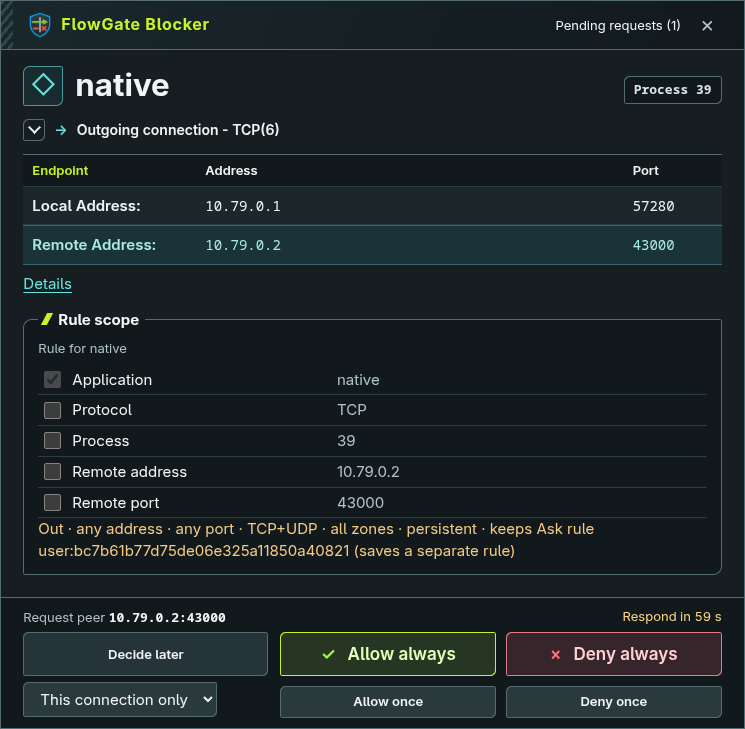
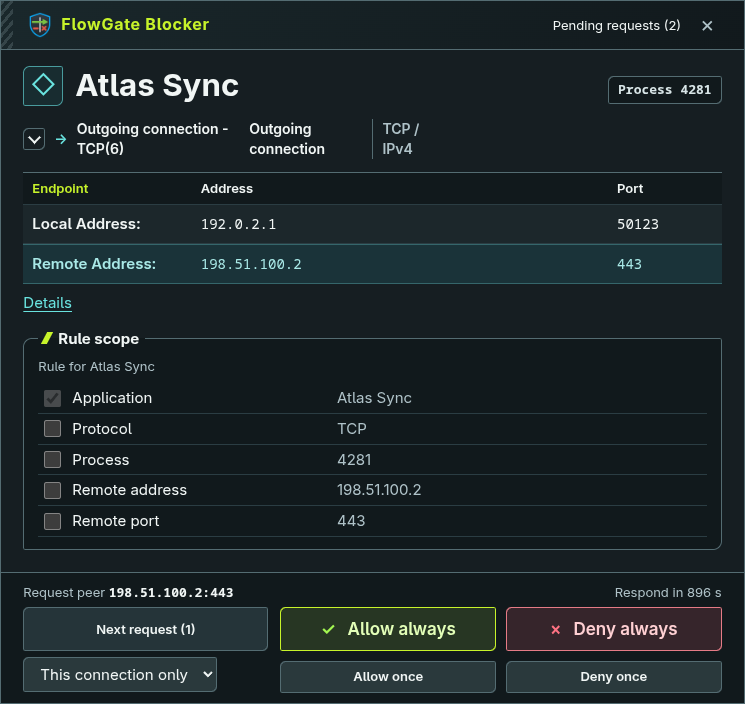
Align release and operator guides with RC16 source and lab receipts

diff --git a/README.md b/README.md
@@ -21,57 +21,52 @@ RC16 adds permission-popup scaling, refreshes the Pending requests inspector,
 and checks the selected shaping interface at startup. The Linux x86-64 package
 and its checksum receipts are on the [RC16 prerelease page](https://github.com/OzoneH3/flowgate/releases/tag/flowgate-v0.1.0-rc.16).
 
-Lab run `1795817718246162010` tested the numbered archive from `a0a9faa9`.
-It passed **229 of 230 API cases** across ten profiles and **220 of 243 GUI
-journeys** across nine desktops. Eighteen GUI journeys involved native tray
-actions that were blocked or unavailable. All ten API profiles restored their
-starting rule inventory.
-
 ## Features
 
-- See live traffic per app and opt in to 1, 7 or 30 days of [usage history](docs/USAGE-HISTORY.md).
-- **Allow, Block or Ask** for inbound and outbound TCP/UDP. Answer once or [save a rule](docs/SEMANTICS.md).
-- Review decisions and their reasons in the [Decision Log](docs/DECISION-LOG.md).
-- Set per-executable rules within each prefix on [supported Wine/Proton setups](docs/PROTON-LAUNCHER-REGRESSION.md).
-- **Experimental** [bandwidth limits and traffic priorities](docs/ZONE-SHAPING.txt) for eligible native apps.
+- **Inspect connections.** Activity groups sockets by application and process. Use the traffic chart and connection analyzer to investigate a connection, or enable 1, 7 or 30 days of machine-wide observed usage history. [Usage history and privacy](docs/USAGE-HISTORY.md)
+- **Decide on requests.** Allow or deny a held connection once, grant a supported temporary process permission, or review the scope of a saved rule. The Pending requests inspector shows the selected connection. Permission popup scale can be set from 75% to 125%. [Desktop guide](electron/README.md)
+- **Manage policy.** Create Allow, Block or Ask rules by direction, protocol, address and port. Scope a rule to an application or a verified process, set an expiry, and inspect which rule won in the Decision Log. [Rule editor](docs/RULES.md) · [Decision Log](docs/DECISION-LOG.md)
+- **Identify Windows applications.** Supported Wine and Proton runtimes can attribute a connection to its Windows executable, user and prefix. [Runtime requirements](docs/WINE.md)
+- **Shape traffic experimentally.** Set upload and download limits or traffic priority on an eligible interface. Saved settings can apply when an application starts. Wine shaping requires a verified live outgoing TCP socket. [Shaping controls](docs/ZONE-SHAPING.txt) · [Traffic priority](docs/TRAFFIC-PRIORITY.txt)
 
 ## Supported systems and limitations
 
-The standalone package targets **x86-64 Linux with systemd**. These are
-scenario results from specific builds. A desktop **Allow once** pass means
-the receiver got exactly one held TCP payload after the popup click.
+The standalone package targets **x86-64 Linux with systemd**. The daemon can
+run headless. The Electron desktop runs on X11 and Wayland.
 
-| Tested system | Recorded result |
-| --- | --- |
-| Debian 13.7 (headless) | RC8 passed 12 firewall rule cases and the separate UDP fast-path check. A later build passed upgrade and rollback with stock `/run` mounted `noexec`. |
-| Linux Mint 22.3 Cinnamon (X11) | RC8 **Allow once** and **Deny once** passed. |
-| Kubuntu 26.04.1 KDE Plasma (Wayland) | RC8 **Allow once** passed. |
-| CachyOS KDE Plasma (Wayland) | RC8 **Allow once** and **Deny once** passed with stock UFW. |
-| Xubuntu 26.04.1 Xfce (X11) | RC8 **Allow once** passed. |
-| openSUSE Tumbleweed KDE Plasma (Wayland) | RC8 **Allow once** passed on retry with stock firewalld. |
-| Pop!_OS 24.04 COSMIC (Wayland) | **Allow once** passed on the placement-fix build `a96ab84d` at stock resolution and scaling. |
-| Ubuntu 26.04.1 GNOME (Wayland) | Earlier headless rules and UDP checks passed. The RC8 desktop retry stopped before GNOME Shell was available. |
-| Fedora 45 GNOME (Wayland) | Earlier builds passed headless rules, UDP, and desktop delivery. The RC8 desktop retry stopped before a Wayland socket was available. A separate run hit a stock firewalld readiness blocker. |
-| CachyOS Hyprland (Wayland) | An earlier desktop delivery check passed with UFW disabled. The stock RC8 check stopped during popup navigation. |
+RC16 passed **229/230 API cases** on ten profiles and **220/243 desktop
+journeys** on nine graphical profiles. The API suite included real connections with
+receiver counts as well as configuration checks. Desktop journeys exercised the packaged GUI with fixture
+requests. These are the original results from run `1795817718246162010`.
 
-[Tested builds, run IDs and earlier results](docs/COMPATIBILITY.md)
+| Tested system | Session | API passed | Desktop journeys passed |
+| --- | --- | ---: | ---: |
+| Debian 13 | Headless | 23/23 | — |
+| CachyOS Hyprland | Wayland | 23/23 | 24/27 |
+| CachyOS Plasma | Wayland | 23/23 | 25/27 |
+| Fedora 45 Workstation (GNOME) | Wayland | 23/23 | 25/27 |
+| Kubuntu 26.04.1 Plasma | Wayland | 23/23 | 23/27 |
+| Linux Mint 22.3 Cinnamon | X11 | 23/23 | 25/27 |
+| openSUSE Tumbleweed Plasma | Wayland | 22/23 | 25/27 |
+| Pop!_OS 24.04 COSMIC | Wayland | 23/23 | 24/27 |
+| Ubuntu 26.04.1 GNOME | Wayland | 23/23 | 24/27 |
+| Xubuntu 26.04.1 Xfce | X11 | 23/23 | 25/27 |
 
-App rules require [verified socket ownership](docs/ATTRIBUTION.md).
-Protection readiness depends on the host firewall and VPN setup. WireGuard
-and XFRM interfaces are [unsupported for protection](docs/SEMANTICS.md).
-Download limiting is experimental and covers
-[eligible established TCP connections](docs/DOWNLOAD-LIMITER.txt).
+- **Firewall enforcement:** openSUSE recorded the process Block failure described above. Application rules depend on verified socket ownership. Protection readiness depends on the host firewall and VPN configuration; WireGuard and XFRM devices remain unsupported. [Attribution](docs/ATTRIBUTION.md) · [Protection scope](docs/SEMANTICS.md)
+- **Tray and popups:** stock Fedora GNOME had no tray host. On the other eight desktops, the runner could not complete the keyboard tray journeys. Bottom-right, above-window permission prompts remain unverified on GNOME and COSMIC. [RC16 compatibility details and earlier runs](docs/COMPATIBILITY.md) · [Popup placement](docs/ROADMAP.md#todo--permission-popup-placement)
+- **Traffic limits:** download limiting covers eligible established TCP connections. Interface discovery and readiness checks determine where shaping can run. [Download limiter](docs/DOWNLOAD-LIMITER.txt)
 
-![FlowGate Activity view with download and upload totals in the traffic chart header, the app table below, and the selected app’s Overview at right](docs/images/flowgate-main-window.png)
+## Desktop screenshots
 
-*The Activity view shows simulated traffic. On wide windows,
-the inspector sits beside the traffic chart and app table.*
+![RC16 Pending requests showing Atlas Sync selected, Beacon Relay queued and the selected connection’s endpoints and permission controls](docs/images/flowgate-main-window.png)
 
-![FlowGate Ask prompt for an outgoing TCP connection from the test executable native, showing endpoints, Rule scope, and the four Always and Once buttons](docs/images/flowgate-ask-popup.png)
+*Select a pending connection to inspect its process, endpoints and available decisions.*
 
-*An outgoing TCP request captured on a default-scale desktop. **Allow always**
-and **Deny always** save a rule using the visible scope. With **This connection
-only** selected, **Allow once** and **Deny once** answer the current request.*
+![RC16 permission popup for Atlas Sync showing an outgoing TCP request, rule scope and Allow or Deny controls](docs/images/flowgate-ask-popup.png)
+
+*Both screenshots use simulated requests. In the popup, **This connection only**
+applies to **Allow once** and **Deny once**. The **Always** buttons use the
+reviewed rule scope.*
 
 ## Try the desktop
 
@@ -82,18 +77,20 @@ system installation and protection settings alone. Press Ctrl+C in the launch
 terminal to stop it. [Desktop prerequisites](electron/README.md)
 
 ```sh
-git clone https://github.com/OzoneH3/flowgate.git
+git clone --branch flowgate-v0.1.0-rc.16 https://github.com/OzoneH3/flowgate.git
 cd flowgate
 ./scripts/run-electron.sh
 ```
 
 ## Install FlowGate
 
-From a clean Git clone of the desired revision, run `make check` for the
-standalone installer, upgrade-state and version checks. Check the
-[build and host requirements](docs/STANDALONE-RELEASE.md#requirements).
+For the published RC16 binary, download the archive, Python installer and both
+checksum files from the release page. Compare the archive and installer against
+the SHA-256 values in the release notes before running preflight and install.
+[Offline installation instructions](docs/STANDALONE-RELEASE.md#install-a-downloaded-package-offline)
 
-Build and verify a package without installing it.
+To build RC16 yourself, use a clean checkout of the release tag. The following
+commands build and verify the package. [Build and host requirements](docs/STANDALONE-RELEASE.md#requirements)
 
 ```sh
 (
@@ -112,8 +109,7 @@ their short Git SHA.
 
 To install or update from the current checkout, run `make update` as the
 intended desktop administrator. It checks both receipts, runs preflight and
-install with sudo, then reloads FlowGate in a graphical session. For retained or
-downloaded files, use the [offline install procedure](docs/STANDALONE-RELEASE.md#install-a-downloaded-package-offline).
+install with sudo, then reloads FlowGate in a graphical session.
 
 A fresh install starts in **Monitoring**. When you're ready to enable
 protection, review essential networking first. Then choose **Incoming only**
@@ -128,7 +124,7 @@ Starting protection preserves open connections. [Established TCP control](docs/E
 VPN peers can fall in the **Local** zone. Configured prefixes can override the
 automatic classification. [Automatic zones](docs/AUTOMATIC-ZONES.md)
 
-## Diagnose before explicit activation
+## Check host readiness
 
 On a standalone installation, run `/usr/local/lib/flowgate/current/flowgate doctor`.
 From a source checkout, use the commands below. Doctor reports what it could

diff --git a/electron/README.md b/electron/README.md
@@ -1,8 +1,7 @@
-# FlowGate Electron milestone
+# FlowGate Electron desktop
 
-An additional unprivileged frontend; Qt and `scripts/run-desktop.sh` remain intact.
-Vanilla TypeScript, CSS and Electron, built by esbuild. No web development server,
-remote assets, frontend rule matching or packaging. Explicit controls use advertised daemon operations; older supported prototypes retain their terminal bridges.
+The standalone package includes this unprivileged desktop. Use the launcher below
+for a source checkout. [Standalone installation](../docs/STANDALONE-RELEASE.md)
 
 ## Run
 
@@ -19,7 +18,7 @@ The launcher installs **repository-local locked npm dependencies**, downloads th
 pinned Electron binary with its package checksums, builds production assets and the
 Go observer, then launches Electron. Requires Node >=22.12, npm, Python 3, the
 repository's Go toolchain and existing desktop libraries. No system installation
-is performed. Node 26.11.1/npm 12.2.0/Electron 44.9.0 were used here. Electron's
+is performed. RC16 pins Electron 44.11.5 in the [package manifest](package.json). Electron's
 sandbox must work; there is no `--no-sandbox` fallback.
 
 Default startup creates a private mode-0700 `build/electron-run-*` directory
@@ -38,11 +37,11 @@ XDG_CACHE_HOME="$PWD/build/cache" TMPDIR="$PWD/build/tmp" python3 electron/launc
 ```
 
 `--interval 1s` configures an owned observer; accepted backend range is 500ms–30s.
-No startup enables host enforcement or privileged UDP collection. Fullscreen or
-inactive applications receive no automatic permission window: pending requests appear in the
-main window and bounded native notifications request review. **Open permission window**
-and notification activation are explicit user actions. Closing
-that window or choosing **Decide later** sends no verdict.
+No startup enables host enforcement or privileged UDP collection. With an authorized controller attached, an actionable pending request can open
+a permission popup automatically. Pending requests remain accessible from the
+main window. Closing the popup sends no verdict. Popup scale can be set to
+75%, 85%, 100%, 115% or 125%. Placement depends on the desktop session.
+[Desktop compatibility](../docs/COMPATIBILITY.md)
 
 ## Custom CSS
 
@@ -81,7 +80,14 @@ its saved width.
 The bundled layout files are in `electron/src/`. The window-specific user
 stylesheet loads after the shared user stylesheet.
 
-## Boundaries and backend semantics
+## Implementation history and verification
+
+The sections below record successive development milestones. Commands, paths,
+tray defaults and test results describe the revision under discussion. Use the
+launch instructions above and the [current feature guide](../README.md#features)
+for RC16.
+
+### Early backend semantics
 
 - `main.ts` owns the Unix sockets indirectly through `backend.ts`. A separate
   serial poll loop serves Activity and control. Losing one does not stop the other.

diff --git a/docs/COMPATIBILITY.md b/docs/COMPATIBILITY.md
@@ -1,9 +1,40 @@
 # Linux compatibility record
 
-The standalone package targets x86-64 Linux with systemd. The tables cover the
-ten distribution and desktop profiles exercised by the local FlowGate VM lab
-on 20–21 November 2026. Each result applies to the installed build, guest
-setup and scenario shown. [Standalone verification record](STANDALONE-RELEASE.md#verification-record)
+The standalone package targets x86-64 Linux with systemd. Results below are
+specific to the recorded package, guest and test. [Standalone verification record](STANDALONE-RELEASE.md#verification-record)
+
+## RC16 matrix · 27 November 2026
+
+Run `1795817718246162010` installed `0.1.0-rc.16-a0a9faa929c5`.
+All ten API profiles restored their starting rule inventory. Debian was headless.
+The executable and archive matched the numbered release. [Published package and digests](https://github.com/OzoneH3/flowgate/releases/tag/flowgate-v0.1.0-rc.16)
+
+| Profile | Guest run | API passed | Desktop journeys passed |
+| --- | --- | ---: | ---: |
+| Debian 13 | `369c462cde4d` | 23/23 | — |
+| CachyOS Hyprland | `57bd5206adad` | 23/23 | 24/27 |
+| CachyOS Plasma | `0e95f7084f27` | 23/23 | 25/27 |
+| Fedora 45 Workstation (GNOME) | `958f5d429810` | 23/23 | 25/27 |
+| Kubuntu 26.04.1 Plasma | `0a970201adda` | 23/23 | 23/27 |
+| Linux Mint 22.3 Cinnamon | `d8ad4b4784b1` | 23/23 | 25/27 |
+| openSUSE Tumbleweed Plasma | `80159bcd4319` | 22/23 | 25/27 |
+| Pop!_OS 24.04 COSMIC | `ced31a1eb01b` | 23/23 | 24/27 |
+| Ubuntu 26.04.1 GNOME | `a3919709316a` | 23/23 | 24/27 |
+| Xubuntu 26.04.1 Xfce | `971b7f1726e8` | 23/23 | 25/27 |
+
+On openSUSE, three earlier decisions selected the process Block. A later decision
+on the same TCP endpoints listed only the application Allow, and the receiver
+got one 36-byte payload. The remaining probes in that case were unreached.
+The trace does not establish why the process rule dropped out of the match.
+
+Two tray journeys per graphical profile account for 18 of the 23 original
+desktop failures. Fedora had no stock tray host; the other profiles stopped
+before their tray actions completed. File → Quit also stopped on Hyprland
+(main window did not acquire focus) and Kubuntu (unexpected intervening key).
+On Kubuntu and COSMIC, replay of the original incoming-request captures verified
+the focused, enabled Allow once control despite a tooltip difference. Ubuntu
+sampled the analyzer after the watch had completed; the same package passed that
+journey in run `1795816176999671793`. The table retains the original verdicts.
 
 ## RC8 and subsequent checks
 

diff --git a/docs/PROCESS-RULES.md b/docs/PROCESS-RULES.md
@@ -2,12 +2,13 @@
 
 Primary capability **`process-instance-rules-v1`** extends the existing observed
 preview/save/status, versioned edit and conditional Delete APIs. Electron stays
-unprivileged. This increment is isolated-only: the running host build is unchanged.
+unprivileged. RC16 ships this capability. The openSUSE matrix recorded a process
+Block falling back to an application Allow on a fresh TCP connection. [RC16 evidence](COMPATIBILITY.md)
 
 ## Scope, precedence and lifetime
 
-An application rule still covers its exact application key, revision and UID across
-instances. A process rule additionally binds a server-issued instance ID to daemon
+An ordinary saved application rule covers the same verified application and UID
+across instances and follows verified program updates. [Application identity](SEMANTICS.md#saved-application-permissions-follow-program-updates) A process rule additionally binds a server-issued instance ID to daemon
 generation, Linux boot ID, PID/start ticks, UID, network/mount/PID namespaces and
 native executable path/revision. A pinned pidfd guards lifetime and PID reuse.
 Never authorize from a PID, display association, icon, process metadata or rule
@@ -17,9 +18,9 @@ Shared/unknown ownership and unresolved runtime/Wine identities cannot obtain or
 use an exclusive process permission. No namespace traversal is added.
 
 Matching **process tier precedes application tier**, regardless of their relative
-priorities. Inside each tier existing descending priority, then ascending rule ID
-ordering is unchanged. No matching live process rule means application fallback,
-then the existing engine default. Scope still includes explicit direction, TCP or
+priorities. Within a tier, priority, network zone, action, user or preset origin, and rule ID
+break ties in that order. If no live process rule matches, the evaluator considers
+matching lower-tier rules. [Rule precedence](RULES.md) Scope still includes explicit direction, TCP or
 UDP (or explicit TCP+UDP with `observed-rule-any-protocol-v1`), remote address/CIDR,
 local/remote ports. See the capability contract in [OBSERVED-RULES.md](OBSERVED-RULES.md#tcpudp-observed-creation-extension). There is no new filter/action model.
 Direction is connection initiation, independent of upload/download.

diff --git a/docs/COEXISTENCE.md b/docs/COEXISTENCE.md
@@ -1,4 +1,4 @@
-> Historical record: the vendor-specific adapter and commands described below have been removed. Current product-independent checks are documented in SEMANTICS.md. These historical test results do not establish current compatibility.
+> Historical record: the vendor-specific adapter and commands described below have been removed. Current product-independent checks are documented in [the current semantics guide](SEMANTICS.md). These historical test results do not establish current compatibility.
 
 # Tailscale coexistence: bounded incoming-only evaluation
 
@@ -103,7 +103,7 @@ also does not bypass another chain's later Drop/Reject. Outgoing traffic is
 FlowGate-permitted in this profile; outgoing transport control remains unverified.
 Forwarded traffic is outside this milestone, including when subnet modes are off.
 
-## Reproduce read-only inspection
+## Historical inspection commands
 
 ```
 sudo -n /home/flowgate-user/Apps/flowgate/.workspace/flowgate tailscale-inspect
@@ -184,7 +184,7 @@ The read-only frontend cannot transition the daemon into enforcement implicitly.
 
 ## Verification and remaining gap
 
-`scripts/checks/check-tailscale.sh` runs focused parser/race/vet checks and an isolated
+The [historical verification script](https://github.com/OzoneH3/flowgate/blob/ba615d08d618813c8757227b667dc930dc34a6bb/scripts/checks/check-tailscale.sh) ran focused parser/race/vet checks and an isolated
 component fixture. It uses real kernel TUNs linked by a private userspace L3 relay,
 two network namespaces, actual iptables-nft MARK/CONNMARK rules, routing and the
 actual controller/NFQUEUE/API/receivers. Only Tailscale version/preferences responses

diff --git a/docs/NETLIMITER-FUNCTIONAL-AUDIT.md b/docs/NETLIMITER-FUNCTIONAL-AUDIT.md
@@ -52,7 +52,7 @@ Trigger: an application is not running and its saved rule uses the supported leg
 
 Evidence:
 
-- [inactive-rules.ts](../electron/src/inactive-rules.ts), `changeStoredRule`, lines 52–70: original fields and incomplete preview comparison.
+- [inactive-rules.ts](https://github.com/OzoneH3/flowgate/blob/b1b658ba0b676cabef44697f71dc64eb26c0c927/electron/src/inactive-rules.ts#L52-L70), `changeStoredRule`, lines 52–70: original fields and incomplete preview comparison.
 - [rules.ts](../electron/src/rules.ts), `draft` lines 82–90 and `preview` lines 173–192: correct normalization followed by replacement.
 - `.workspace/netlimiter-audit-01a16a05/inactive-scope-probe.cjs` and `.log`: actual compiled client functions, synthetic local Unix API; IPv4 and IPv6 endpoint cases widen, modern separate address/port control case preserves scope. Each case sends one preview and one save.
 - `backend-scope-probe.go` and `.log` in the same directory: actual `Engine.EditRule` commits the widened candidates in memory at version 2. No host database or packet delivery was involved.

diff --git a/desktop/README.md b/desktop/README.md
@@ -74,12 +74,12 @@ Read UDP.md before host use. Domain/location data are not invented. See [desktop
 For a separately managed observer (stop with Ctrl+C):
 
 ```sh
-. scripts/go-env.sh
+scripts/build.sh desktop
 mkdir -p .workspace/my-monitor
 chmod 700 .workspace/my-monitor
-.workspace/flowgate observe --socket "$PWD/.workspace/my-monitor/control.sock" --interval 2s
+build/flowgate observe --socket "$PWD/.workspace/my-monitor/control.sock" --interval 2s
 # Another terminal:
-.workspace/desktop/flowgate-desktop --socket "$PWD/.workspace/my-monitor/control.sock"
+build/desktop/flowgate-desktop --socket "$PWD/.workspace/my-monitor/control.sock"
 ```
 
 An existing socket is refused. Use another private directory rather than deleting
@@ -123,7 +123,7 @@ To build and connect to an existing private lab API:
 
 ```sh
 scripts/build.sh desktop
-.workspace/desktop/flowgate-desktop --socket /absolute/private/directory/control.sock
+build/desktop/flowgate-desktop --socket /absolute/private/directory/control.sock
 # Use control.sock.monitor for read-only monitoring.
 ```
 

diff --git a/docs/RULES.md b/docs/RULES.md
@@ -1,6 +1,6 @@
 # Saved rule editor contract
 
-## Process-instance extension (not deployed)
+## Process-instance rules
 
 Primary capability `process-instance-rules-v1` adds explicit process targets with
 pinned native/session identity, process-tier precedence and inactive lifecycle
@@ -28,7 +28,8 @@ identity retains the existing revision policy; it does not grant a runtime/prefi
 Precedence (`policy.Precedes`, the same comparator the evaluator sorts with, and
 the source of the sentence shown in previews and explanations): among matching
 active rules (the newest saved setting of each program scope), higher target
-weight wins (process 4 › application 3 › zone 2 › all programs 1); then higher
+weight wins (network endpoint 5 › process 4 › application 3 › zone 2 › all
+programs 1); then higher
 priority; then a matching Local or Internet rule over All networks; then Deny › Allow › Ask; then a user rule over a preset; then the
 lexicographically smaller rule ID. No match asks.
 

diff --git a/docs/STATUS.md b/docs/STATUS.md
@@ -1,4 +1,11 @@
-# Interim Wine UDP speedup release
+# FlowGate release status
+
+RC16 is published for x86-64 Linux. The original matrix passed 229 of 230 API cases
+and 220 of 243 desktop journeys. On openSUSE, a fresh TCP connection delivered
+data under an application Allow despite an enabled process Block. The cause
+remains open. [Results by profile](COMPATIBILITY.md) · [Installation](STANDALONE-RELEASE.md)
+
+## Earlier Wine UDP speedup release
 
 This release excludes the unfinished shared-observation work and retains
 independent per-flow ownership proofs. It enables the digest-verified per-TID
@@ -26,7 +33,7 @@ No actual game is named or special-cased in production.
 
 The following earlier status is retained as history:
 
-# FlowGate status
+## Earlier implementation status
 
 Earlier deployment and acceptance notes are indexed in the
 [historical records](HANDOFF.md#historical-records).

diff --git a/docs/NETWORK-ZONES.md b/docs/NETWORK-ZONES.md
@@ -1,6 +1,8 @@
 # Configured Local Network / Internet policy (`network-zone-policy-v1`)
 
-Implemented, not deployed. This extends policy, not traffic accounting or routing.
+This document describes the original configured-prefix classifier. RC16 also classifies
+peers automatically and gives configured prefixes precedence for eligible addresses.
+[Current zone membership and precedence](AUTOMATIC-ZONES.md#membership-and-precedence)
 [NetLimiter zones](https://www.netlimiter.com/docs/basic-concepts/zones) are named
 filters; its [rules](https://netlimiter.com/docs/basic-concepts/rules) independently
 choose a target, zone and initiation direction. The inspected installed UI has those

diff --git a/docs/ROADMAP.md b/docs/ROADMAP.md
@@ -2,9 +2,10 @@
 
 22 November 2026 · Source reviewed at `6df60ab3dab378899ce1323cf34103b2deb78071`
 
-Prioritize a patched, independently verified standalone release. Then make the
-same checks repeatable across supported desktops and measure the remaining UDP
-and shaping limits before widening their support.
+RC16 follow-up (27 November 2026). The numbered package is published. The
+remaining firewall investigation is the openSUSE process Block that fell back
+to an application Allow. The audit and qualification plan below record the
+22 November baseline. [RC16 results by profile](COMPATIBILITY.md)
 
 ## Audit findings
 

diff --git a/docs/API.md b/docs/API.md
@@ -14,7 +14,7 @@ legacy clients. [Full contract and fixture](OBSERVED-RULES.md#tcpudp-observed-cr
 No host rollout or automatic default broadening; old daemons retain TCP|UDP choice.
 
 
-## Process-instance extension (deployed on host monitor 60d35a3)
+## Process-instance rules
 
 Primary capability `process-instance-rules-v1` adds explicit process targets with
 pinned native/session identity, process-tier precedence and inactive lifecycle
